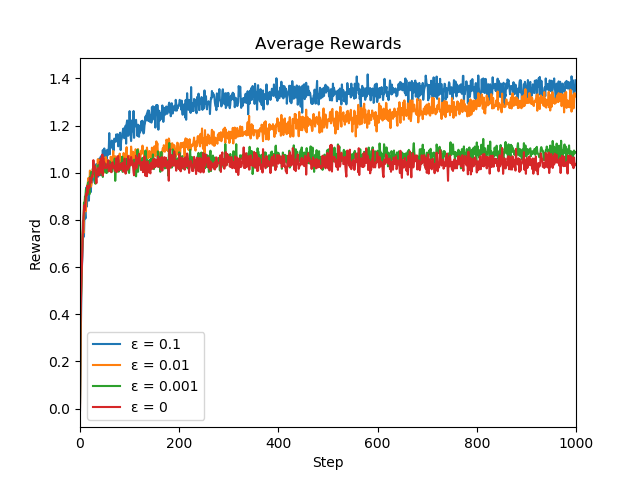
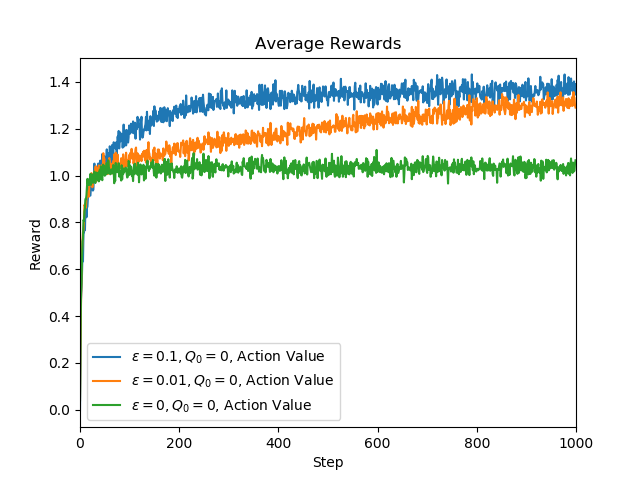
add initial q0 value and optimal action % plot

diff --git a/02-multi-armed-bandits/bandits.py b/02-multi-armed-bandits/bandits.py
@@ -39,9 +39,10 @@ class Agent(object):
     def __init__(self, eps):
         self.eps = eps
     
-    def init(self, actions):
+    def init(self, actions, q0=0):
         self.actions = actions
-        self.q = np.zeros(actions)
+        self.q0 = q0
+        self.q = np.full(actions, q0, dtype=np.float)
     
     def act(self):
         if np.random.rand() > self.eps:
@@ -64,8 +65,8 @@ class ActionValueAgent(Agent):
     def __init__(self, eps):
         super().__init__(eps)
     
-    def init(self, actions):
-        super().init(actions)
+    def init(self, actions, q0=0):
+        super().init(actions, q0)
         self.n = np.zeros(actions)
 
     def step_size(self, a):
@@ -76,7 +77,7 @@ class ActionValueAgent(Agent):
         super().update(a, r)
     
     def legend(self):
-        return 'ε = {}, Action Value'.format(self.eps)
+        return '$\epsilon = {}, Q_0 = {}$, Action Value'.format(self.eps, self.q0)
 
 class FixedStepAgent(Agent):
     def __init__(self, eps, alpha):
@@ -87,7 +88,7 @@ class FixedStepAgent(Agent):
         return self.alpha
     
     def legend(self):
-        return 'ε = {}, α = {}, Fixed Step'.format(self.eps, self.alpha)
+        return '$\epsilon = {}, \alpha = {}, Q_0 = {}$, Fixed Step'.format(self.eps, self.alpha, self.q0)
 
 
 def plot_rewards(metric, title, xlim, legend):
@@ -101,11 +102,25 @@ def plot_rewards(metric, title, xlim, legend):
     plt.savefig('results/{}.png'.format(title.lower().replace(' ', '_')))
     plt.show()
 
+def plot_optimal(metric, title, xlim, legend):
+    plt.plot(metric)
+    plt.title(title)
+    plt.gcf().canvas.set_window_title(title)
+    plt.xlim(0, xlim)
+    plt.xlabel('Step')
+    plt.gca().yaxis.set_major_formatter(ticker.PercentFormatter())
+    plt.ylim(0, 100)
+    plt.ylabel('Optimal Action %')
+    plt.gca().legend(legend)
+    plt.savefig('results/{}.png'.format(title.lower().replace(' ', '_')))
+    plt.show()
+
 def main(problems=PROBLEMS, steps=STEPS, stationary=True):
-    eps = [0.1, 0.01, 0.001, 0]
+    eps = [0.1, 0.01, 0]
     normal = np.random.randn(10000)
-    agents = [ActionValueAgent(eps=0.1), FixedStepAgent(eps=0.1, alpha=0.1)]
+    agents = [ActionValueAgent(eps=e) for e in eps] #FixedStepAgent(eps=0.1, alpha=0.1)
     total_rewards = np.zeros((steps, len(agents)))
+    optimal_actions = np.zeros_like(total_rewards)
     for p in tqdm(range(problems)):
         bandits = BANDITS
         if stationary:
@@ -117,17 +132,21 @@ def main(problems=PROBLEMS, steps=STEPS, stationary=True):
             agent.init(bandits)
         for t in range(steps):
             for i, agent in enumerate(agents):
+                a_opt = np.argmax(means)
                 a = agent.act()
                 r = bandit(a)
                 agent.update(a, r)
                 total_rewards[t, i] += r
+                optimal_actions[t, i] += a == a_opt
             if not stationary:
                 update_nonstationary(means)
     
     average_rewards = total_rewards / problems
+    optimal_actions = optimal_actions * 100.0 / problems
     legend = tuple(agent.legend() for agent in agents)
     plot_rewards(total_rewards, 'Total Rewards', steps, legend)
     plot_rewards(average_rewards, 'Average Rewards', steps, legend)
+    plot_optimal(optimal_actions, 'Optimal Actions', steps, legend)
 
 if __name__ == '__main__':
-    main(stationary=False, problems=PROBLEMS, steps=10_000)
+    main(stationary=True, problems=PROBLEMS, steps=STEPS)

diff --git a/02-multi-armed-bandits/README.md b/02-multi-armed-bandits/README.md
@@ -5,6 +5,7 @@
 Tests are made with action value sample-average agents for ε = `0.1`, `0.01`, `0.001` and `0`
 ![stationary total rewards](results/stationary_total_rewards.png)
 ![stationary average rewards](results/stationary_average_rewards.png)
+![stationary optimal actions](results/stationary_optimal_actions.png)
 
 ## Non-stationary problem
 
